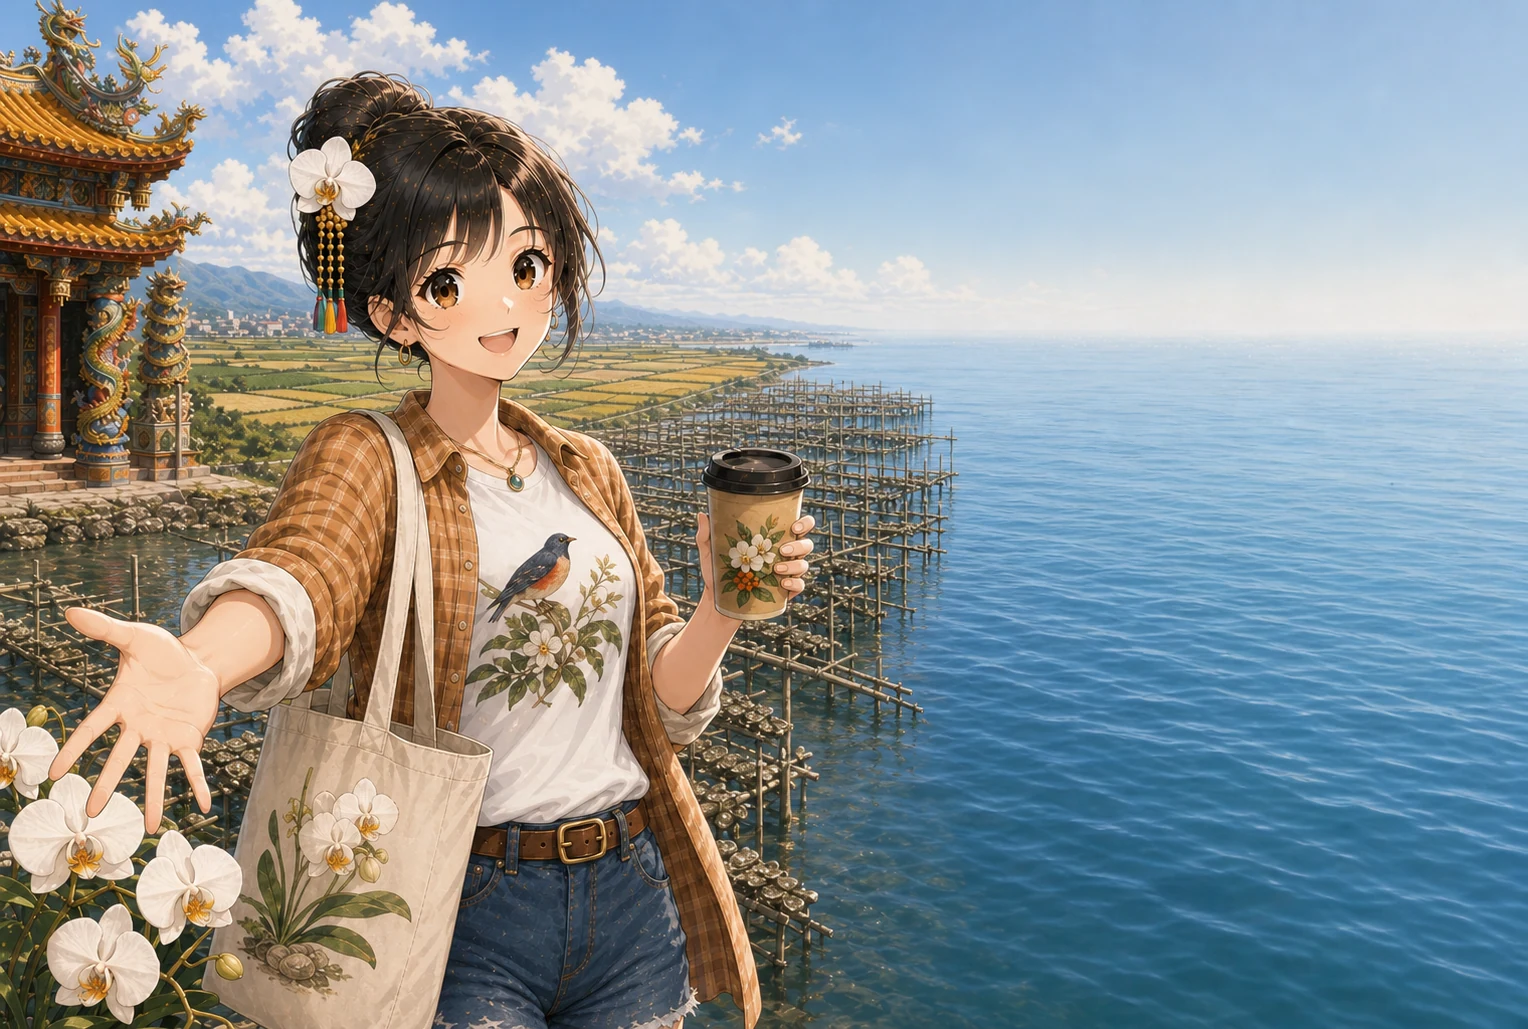
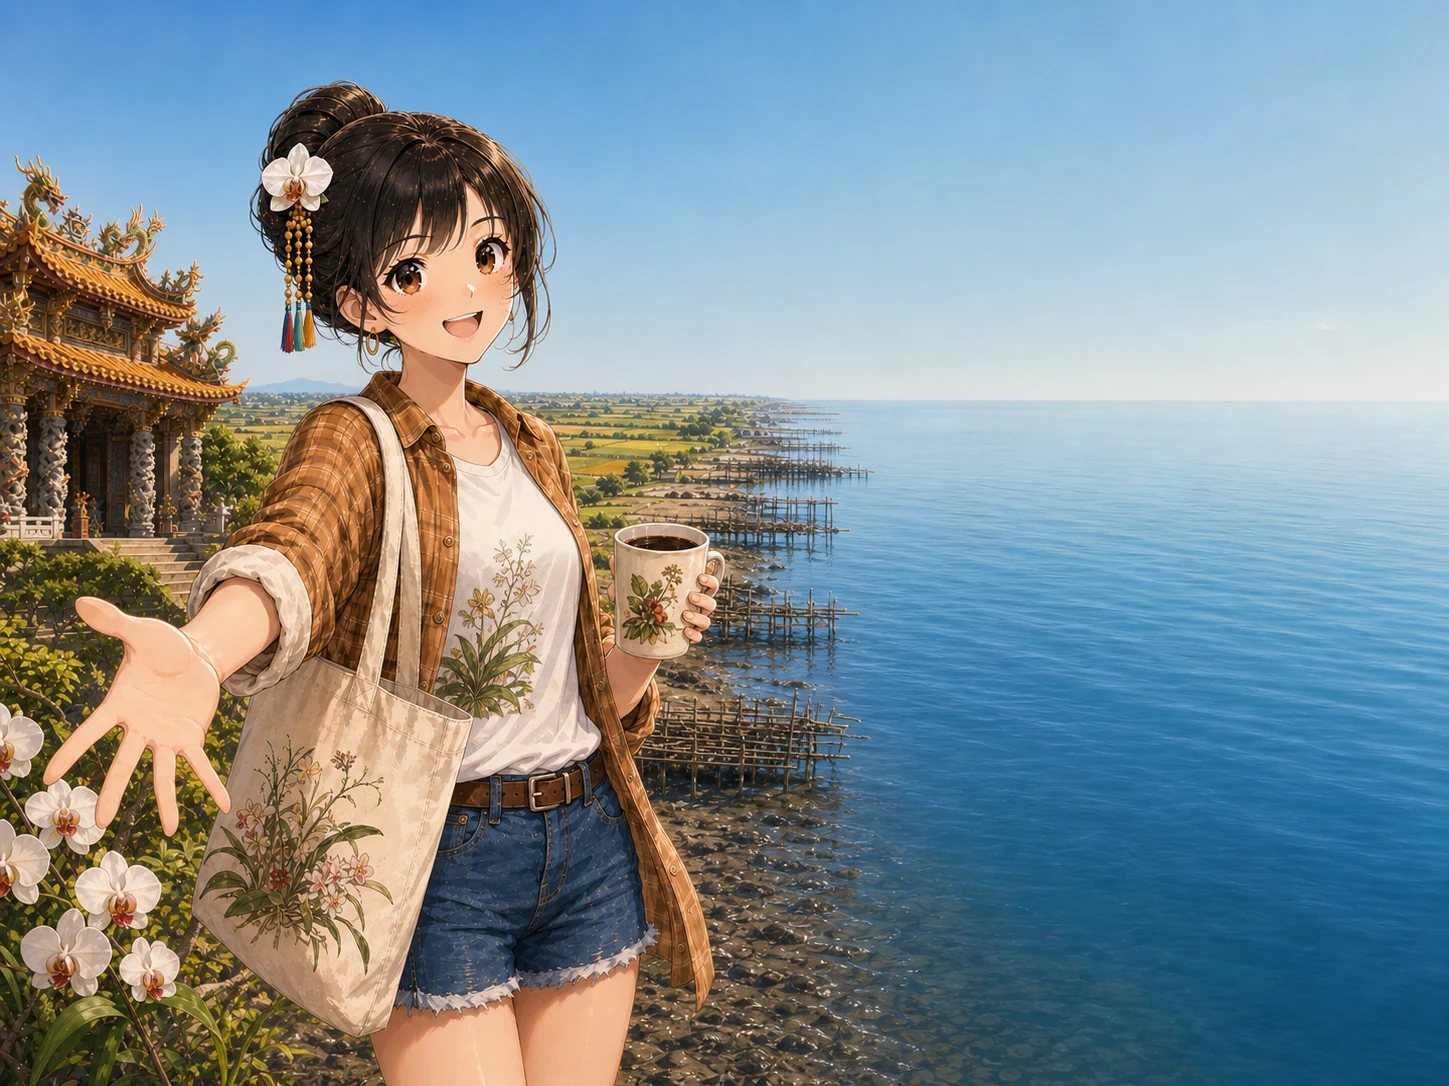
22 句引句全部改用海報原文
先前把 22 句全部改寫成「XX是咱的家」，但那個句型只有高雄那張是這樣寫的，
套到全部等於把原本的變化抹平成模板。
而且我只看了最左那一欄就下結論——實際上 20 張每一張都有那句話，
只是位置不同：10 張最左直書、新北在識別帶上、新竹在告示上、
其餘藏在段落卡的收尾。
現在 22 句全部取自原文，共用海報的兩對各取不同分句。

diff --git a/index.html b/index.html
@@ -788,7 +788,7 @@ const SEA_LBL=new Set(["基隆市","新竹市","嘉義市"]);
    資料來源 data/counties.json，改那裡之後要同步這裡。 */
 /* pick() 在載入時就會執行並寫入 CUR，宣告必須在它之前，否則 TDZ 會中斷整段腳本 */
 let CUR=null;
-const SPLIT={"基隆市": {"b": "keelung-base", "places": ["基隆嶼", "和平島", "潮境公園"], "foods": ["廟口小吃", "吉古拉", "基隆豆干"], "traits": ["海派", "浪漫", "念舊"], "quote": "雨絲綿綿，廟口鬧鬧，基隆是咱的家。"}, "台北市": {"b": "taipei-base", "places": ["陽明山", "北投溫泉", "象山"], "foods": ["士林夜市", "鳳梨酥", "貓空鐵觀音"], "traits": ["多元", "包容", "講究"], "quote": "硫煙裊裊，湯泉熱熱，台北是咱的家。"}, "新北市": {"b": "new-taipei-base", "places": ["野柳", "淡水", "烏來"], "foods": ["萬里蟹", "貢寮鮑", "金山地瓜"], "traits": ["實在", "勤懇", "山海兼容"], "quote": "潮聲隆隆，山城層層，新北是咱的家。"}, "桃園市": {"b": "taoyuan-base", "places": ["拉拉山", "石門水庫", "大溪老街"], "foods": ["大溪豆干", "石門活魚", "忠貞米干"], "traits": ["移民城市", "有拼勁", "多族群"], "quote": "埤塘閃閃，豆干韌韌，桃園是咱的家。"}, "新竹市": {"b": "hsinchu-city-base", "places": ["十八尖山", "南寮漁港", "新竹都城隍廟"], "foods": ["新竹米粉", "貢丸", "竹塹餅"], "traits": ["務實", "低調", "有遠見"], "quote": "風聲颼颼，米粉細細，新竹是咱的家。"}, "新竹縣": {"b": "hsinchu-county-base", "places": ["內灣老街", "北埔老街", "司馬庫斯"], "foods": ["客家擂茶", "粄條", "東方美人茶"], "traits": ["客家硬頸", "念祖", "勤儉"], "quote": "擂茶稠稠，茶山青青，新竹是咱的家。"}, "宜蘭縣": {"b": "yilan-base", "places": ["龜山島", "太平山", "冬山河"], "foods": ["三星蔥", "鴨賞", "宜蘭牛舌餅"], "traits": ["純淨", "慢活", "樂天"], "quote": "水田亮亮，青蔥直直，宜蘭是咱的家。"}, "苗栗縣": {"b": "miaoli-base", "places": ["南庄老街", "三義木雕村", "火炎山"], "foods": ["大湖草莓", "客家小炒", "苗栗粄條"], "traits": ["客家魂", "山城心", "人情味"], "quote": "木香沉沉，草莓紅紅，苗栗是咱的家。"}, "台中市": {"b": "taichung-base", "places": ["高美濕地", "台中國家歌劇院", "宮原眼科"], "foods": ["珍珠奶茶", "太陽餅", "逢甲夜市"], "traits": ["溫暖", "努力", "有品味"], "quote": "濕地闊闊，餅香酥酥，台中是咱的家。"}, "彰化縣": {"b": "changhua-base", "places": ["鹿港老街", "八卦山大佛", "扇形車庫"], "foods": ["彰化肉圓", "爌肉飯", "王功蚵仔"], "traits": ["樸實", "勤儉", "重傳承"], "quote": "車庫圓圓，肉圓燙燙，彰化是咱的家。"}, "南投縣": {"b": "nantou-base", "places": ["日月潭", "清境農場", "合歡山"], "foods": ["凍頂烏龍茶", "南投意麵", "竹山番薯"], "traits": ["誠實", "勤奮", "和諧"], "quote": "潭水深深，茶香淡淡，南投是咱的家。"}, "雲林縣": {"b": "yunlin-base", "places": ["北港朝天宮", "西螺大橋", "劍湖山"], "foods": ["古坑咖啡", "雲林花生", "西螺醬油"], "traits": ["腳踏實地", "好客", "有責任感"], "quote": "稻浪滾滾，醬缸厚厚，雲林是咱的家。"}, "嘉義市": {"b": "chiayi-city-base", "places": ["檜意森活村", "文化路夜市", "射日塔"], "foods": ["火雞肉飯", "林聰明沙鍋魚頭", "方塊酥"], "traits": ["慢慢來", "重人情", "講義氣"], "quote": "檜香濃濃，雞飯燒燒，嘉義是咱的家。"}, "嘉義縣": {"b": "chiayi-county-base", "places": ["阿里山", "奮起湖老街", "東石漁人碼頭"], "foods": ["阿里山高山茶", "東石鮮蚵", "梅山茶"], "traits": ["純樸", "堅持", "誠懇"], "quote": "雲海茫茫，茶園高高，嘉義是咱的家。"}, "台南市": {"b": "tainan-base", "places": ["赤崁樓", "安平古堡", "七股鹽山"], "foods": ["台南牛肉湯", "擔仔麵", "虱目魚"], "traits": ["古都風華", "慢活", "重人情"], "quote": "古城老老，湯頭清清，台南是咱的家。"}, "高雄市": {"b": "kh-base", "places": ["西子灣", "蓮池潭", "旗津"], "foods": ["丹丹漢堡", "木瓜牛奶", "旗山香蕉冰"], "traits": ["熱情", "豪爽", "打拚"], "quote": "海風鹹鹹，人情暖暖，高雄是咱的家。"}, "屏東縣": {"b": "pingtung-base", "places": ["墾丁國家公園", "東港大鵬灣", "佳樂水"], "foods": ["東港黑鮪魚", "萬巒豬腳", "恆春綠豆蒜"], "traits": ["樂天", "純樸", "包容"], "quote": "日頭辣辣，海水藍藍，屏東是咱的家。"}, "花蓮縣": {"b": "hualien-base", "places": ["太魯閣峽谷", "清水斷崖", "七星潭"], "foods": ["瑞穗文旦", "洛神花", "金針花"], "traits": ["純淨", "自由", "堅韌"], "quote": "峽谷幽幽，海水靜靜，花蓮是咱的家。"}, "台東縣": {"b": "taitung-base", "places": ["三仙台", "伯朗大道", "知本溫泉"], "foods": ["台東釋迦", "池上米", "鹿野紅烏龍"], "traits": ["包容", "自由", "樂觀"], "quote": "稻香飄飄，海岸長長，台東是咱的家。"}, "澎湖縣": {"b": "penghu-base", "places": ["雙心石滬", "七美藍洞", "澎湖天后宮"], "foods": ["小管麵線", "仙人掌冰", "花枝丸"], "traits": ["熱情", "團結", "勇敢"], "quote": "石滬彎彎，海水清清，澎湖是咱的家。"}, "金門縣": {"b": "kinmen-base", "places": ["莒光樓", "翟山坑道", "風獅爺"], "foods": ["金門貢糖", "廣東粥", "金門高粱酒"], "traits": ["堅毅", "重情", "守護"], "quote": "海風硬硬，貢糖甜甜，金門是咱的家。"}, "連江縣": {"b": "lienchiang-base", "places": ["芹壁聚落", "北海坑道", "大坵島"], "foods": ["繼光餅", "老酒麵線", "馬祖淡菜"], "traits": ["堅毅", "團結", "守望"], "quote": "石屋疊疊，海路遠遠，馬祖是咱的家。"}};
+const SPLIT={"基隆市": {"b": "keelung-base", "places": ["基隆嶼", "和平島", "潮境公園"], "foods": ["廟口小吃", "吉古拉", "基隆豆干"], "traits": ["海派", "浪漫", "念舊"], "quote": "基隆，永遠是我們的靠山，也是我們的起點。"}, "台北市": {"b": "taipei-base", "places": ["陽明山", "北投溫泉", "象山"], "foods": ["士林夜市", "鳳梨酥", "貓空鐵觀音"], "traits": ["多元", "包容", "講究"], "quote": "在這裡，每一天都發生未來。"}, "新北市": {"b": "new-taipei-base", "places": ["野柳", "淡水", "烏來"], "foods": ["萬里蟹", "貢寮鮑", "金山地瓜"], "traits": ["實在", "勤懇", "山海兼容"], "quote": "我的新北，我驕傲。"}, "桃園市": {"b": "taoyuan-base", "places": ["拉拉山", "石門水庫", "大溪老街"], "foods": ["大溪豆干", "石門活魚", "忠貞米干"], "traits": ["移民城市", "有拼勁", "多族群"], "quote": "連結世界的門戶，也是充滿活力與溫暖的家鄉。"}, "新竹市": {"b": "hsinchu-city-base", "places": ["十八尖山", "南寮漁港", "新竹都城隍廟"], "foods": ["新竹米粉", "貢丸", "竹塹餅"], "traits": ["務實", "低調", "有遠見"], "quote": "風起新竹，智領未來。"}, "新竹縣": {"b": "hsinchu-county-base", "places": ["內灣老街", "北埔老街", "司馬庫斯"], "foods": ["客家擂茶", "粄條", "東方美人茶"], "traits": ["客家硬頸", "念祖", "勤儉"], "quote": "在傳統與未來之間找到平衡。"}, "宜蘭縣": {"b": "yilan-base", "places": ["龜山島", "太平山", "冬山河"], "foods": ["三星蔥", "鴨賞", "宜蘭牛舌餅"], "traits": ["純淨", "慢活", "樂天"], "quote": "以謙遜的心，過簡單的生活。"}, "苗栗縣": {"b": "miaoli-base", "places": ["南庄老街", "三義木雕村", "火炎山"], "foods": ["大湖草莓", "客家小炒", "苗栗粄條"], "traits": ["客家魂", "山城心", "人情味"], "quote": "有山有海，有客家文化。"}, "台中市": {"b": "taichung-base", "places": ["高美濕地", "台中國家歌劇院", "宮原眼科"], "foods": ["珍珠奶茶", "太陽餅", "逢甲夜市"], "traits": ["溫暖", "努力", "有品味"], "quote": "在傳統與現代之間，走出屬於自己的步調。"}, "彰化縣": {"b": "changhua-base", "places": ["鹿港老街", "八卦山大佛", "扇形車庫"], "foods": ["彰化肉圓", "爌肉飯", "王功蚵仔"], "traits": ["樸實", "勤儉", "重傳承"], "quote": "美好彰化，希望城市。"}, "南投縣": {"b": "nantou-base", "places": ["日月潭", "清境農場", "合歡山"], "foods": ["凍頂烏龍茶", "南投意麵", "竹山番薯"], "traits": ["誠實", "勤奮", "和諧"], "quote": "山水之間，就是我們的家。"}, "雲林縣": {"b": "yunlin-base", "places": ["北港朝天宮", "西螺大橋", "劍湖山"], "foods": ["古坑咖啡", "雲林花生", "西螺醬油"], "traits": ["腳踏實地", "好客", "有責任感"], "quote": "風起雲湧，農業首都，雲林上場。"}, "嘉義市": {"b": "chiayi-city-base", "places": ["檜意森活村", "文化路夜市", "射日塔"], "foods": ["火雞肉飯", "林聰明沙鍋魚頭", "方塊酥"], "traits": ["慢慢來", "重人情", "講義氣"], "quote": "不喜歡說大話，但我們做得到。"}, "嘉義縣": {"b": "chiayi-county-base", "places": ["阿里山", "奮起湖老街", "東石漁人碼頭"], "foods": ["阿里山高山茶", "東石鮮蚵", "梅山茶"], "traits": ["純樸", "堅持", "誠懇"], "quote": "勇敢，踏實，向前行。"}, "台南市": {"b": "tainan-base", "places": ["赤崁樓", "安平古堡", "七股鹽山"], "foods": ["台南牛肉湯", "擔仔麵", "虱目魚"], "traits": ["古都風華", "慢活", "重人情"], "quote": "台南是我們的驕傲，也是我們的日常。"}, "高雄市": {"b": "kaohsiung-base", "places": ["西子灣", "蓮池潭", "旗津"], "foods": ["丹丹漢堡", "木瓜牛奶", "旗山香蕉冰"], "traits": ["熱情", "豪爽", "打拚"], "quote": "海風鹹鹹，人情暖暖，高雄是咱的家。"}, "屏東縣": {"b": "pingtung-base", "places": ["墾丁國家公園", "東港大鵬灣", "佳樂水"], "foods": ["東港黑鮪魚", "萬巒豬腳", "恆春綠豆蒜"], "traits": ["樂天", "純樸", "包容"], "quote": "山海相擁的土地，人情溫暖的日常。"}, "花蓮縣": {"b": "hualien-base", "places": ["太魯閣峽谷", "清水斷崖", "七星潭"], "foods": ["瑞穗文旦", "洛神花", "金針花"], "traits": ["純淨", "自由", "堅韌"], "quote": "我們以自然為家。"}, "台東縣": {"b": "taitung-base", "places": ["三仙台", "伯朗大道", "知本溫泉"], "foods": ["台東釋迦", "池上米", "鹿野紅烏龍"], "traits": ["包容", "自由", "樂觀"], "quote": "是旅行的目的地，更是心靈的歸屬地。"}, "澎湖縣": {"b": "penghu-base", "places": ["雙心石滬", "七美藍洞", "澎湖天后宮"], "foods": ["小管麵線", "仙人掌冰", "花枝丸"], "traits": ["熱情", "團結", "勇敢"], "quote": "風大但是心暖，澎湖囡仔人情甘甜。"}, "金門縣": {"b": "kinmen-base", "places": ["莒光樓", "翟山坑道", "風獅爺"], "foods": ["金門貢糖", "廣東粥", "金門高粱酒"], "traits": ["堅毅", "重情", "守護"], "quote": "風很硬，心很暖，我們守著家園，也迎接世界。"}, "連江縣": {"b": "lienchiang-base", "places": ["芹壁聚落", "北海坑道", "大坵島"], "foods": ["繼光餅", "老酒麵線", "馬祖淡菜"], "traits": ["堅毅", "團結", "守望"], "quote": "山海相依，風浪淬鍊，這就是馬祖人的日常。"}};
 const NUDGE={"基隆市":[86,-40],"台北市":[2,-74],"新竹市":[-128,-30],"嘉義市":[-150,-30]};
 /* 由北到南排：連江(馬祖) 26.2°N → 金門 24.4°N → 澎湖 23.6°N */
 const INSET={matsu:"連江縣",kinmen:"金門縣",penghu:"澎湖縣"};

diff --git a/tools/build_prompt.py b/tools/build_prompt.py
@@ -51,13 +51,19 @@ def check(c):
 
 def build(c):
     s = c["scene"]
+    hairstyle_lock = (
+        "Use the county-specific hairstyle in IN HER HAIR below; it overrides the default bun. "
+        if s.get("hair") else
+        "Her hair is gathered high into a neat compact bun as described above, tidy and close "
+        "to the head. "
+    )
     return (
         "Repaint the scene from image 1 as one single continuous illustration in exactly the "
         "same anime illustration style, colour palette and lighting. "
         f"THE CHARACTER, locked by the reference sheets: {CARD['card']} "
         "Keep her face, eyes, hair colour and hair length exactly as in the reference sheets — but "
-        "NOT the hairstyle: the sheets show it blown loose by the wind, which is wrong. Her hair is "
-        "gathered high into a neat compact bun as described above, tidy and close to the head. "
+        "NOT the hairstyle: the sheets show it blown loose by the wind, which is wrong. "
+        + hairstyle_lock +
         "Same outstretched left arm and open-hand gesture, same pose. "
         + (f"IN HER HAIR: {s['hair']}. "
            if s.get("hair") else
@@ -84,8 +90,11 @@ def build(c):
         + "; ".join(s.get("landmarks_en") or s["landmarks"]) + ". "
         f"In the lower left corner, {s.get('plants_desc') or s.get('plants_en') or ('blossoms of ' + '、'.join(s['plants']))}, "
         "attached to their own branches and never floating over water. "
-        "COMPOSITION: she stands in the LEFT THIRD of the picture and must not extend past the "
-        "horizontal midpoint — the right 40 percent stays empty. "
+        "COMPOSITION: she stands in the LEFT THIRD of the picture. Her entire silhouette — "
+        "including both hands, hair, clothing, tote and the cup — must fit at or left of the "
+        "horizontal midpoint; hold the cup inward near her chest so its right edge does not cross "
+        "that midpoint. Confine all land, shoreline, cliffs, rocks and vegetation to the left 60 "
+        "percent. From x=60% to the right edge, the right 40 percent stays empty. "
         "GARMENT PRINTS — no lettering anywhere: the T-shirt and the canvas tote each carry a "
         "printed illustration with absolutely no words, letters or Chinese characters. Any label on "
         "what she is holding carries only a small wordless illustration. Every print must be a complete "
@@ -117,12 +126,67 @@ def build(c):
 
 
 def refs(c):
-    """生圖要附的參考圖，順序固定：立繪 → 臉部四視圖 → 該縣市舊海報。"""
-    out = [ROOT / "data" / "character" / "ref-half.png",
-           ROOT / "data" / "character" / "face.png"]
+    """生圖要附的參考圖：image 1 是舊海報，其後才是角色設定圖。"""
+    out = []
     if c.get("poster"):
         out.append(ROOT / "img" / f"{c['poster']}.webp")
+    out.extend([ROOT / "data" / "character" / "ref-half.png",
+                ROOT / "data" / "character" / "face.png"])
     return [str(p) for p in out if p.exists()]
+
+
+def build_composition_fix(c):
+    """既有底圖只重排人物與右側留白，不重畫角色設計。"""
+    return (
+        "Use case: precise-object-edit. Image 1 is the edit target. Change only the spatial "
+        "composition. Preserve the exact character identity, face, warm brown eyes, expression, "
+        "county-specific hairstyle and flower accessory, gold beaded tassel hairpin, outfit, "
+        "jewellery, tote, held item, hand gestures, anime rendering, colour palette and daylight. "
+        "Uniformly scale the whole character with both arms, tote and cup to about 85 percent of "
+        "its current size and shift it left, without cropping the open left hand, until every part "
+        "of the character including the cup's right edge is at or left of x=50 percent. The head "
+        "should span about 14 percent of the canvas width and the lower frame should cut the figure "
+        "at mid-thigh. Recompose only the scenery needed to fill the revealed space naturally. "
+        "Confine every piece of land, shoreline, cliff, rock and vegetation to x=0–60 percent. "
+        "From x=60 percent to the right edge, show only continuous open sea and sky: no land, "
+        "shoreline, rocks, vegetation, buildings, boats, figures or objects. Keep the top 22 percent "
+        "of the right half completely open sky and keep the middle-right water smooth for text. "
+        "Do not change, add or remove any other subject detail. No text, letters, logos, panels, "
+        "borders or watermarks. One continuous 4:3 landscape illustration."
+    )
+
+
+def build_framing_fix(c):
+    """右側留白正確後，只修近距離人物尺度與垂直位置。"""
+    return (
+        "Use case: precise-object-edit. Image 1 is the edit target. Change only the character's "
+        "scale and vertical framing; keep the current left/right scene boundary and every background "
+        "detail exactly unchanged. Preserve the exact face, warm brown eyes, expression, "
+        "county-specific hairstyle and flower accessory, gold beaded tassel hairpin, clothing, "
+        "jewellery, tote, held item, both hand gestures, anime style, palette and lighting. Enlarge "
+        "the entire "
+        "character uniformly to 115 percent of its current size and move it upward so the top of the "
+        "flower crown reaches y=10 percent of the canvas. Continue the lower body naturally beyond "
+        "the canvas so the bottom edge crops her at mid-thigh; do not leave scenery beneath her. "
+        "Keep the open left hand fully visible. The complete silhouette including the cup must remain "
+        "at or left of x=50 percent. Do not alter the open sea and sky from x=60–100 percent. Do not "
+        "change, add or remove any other subject detail. No text, letters, logos, panels, borders or "
+        "watermarks. One continuous 4:3 landscape illustration."
+    )
+
+
+def build_plant_fix(c):
+    """既有底圖只修左下角的縣花植物形態。"""
+    plant = c["scene"].get("plants_desc") or c["scene"].get("plants_en")
+    return (
+        "Use case: precise-object-edit. Image 1 is the edit target. Change only the botanical "
+        "cluster in the lower-left corner so it clearly and accurately contains: " + plant + ". "
+        "Every flower, seed pod, stalk and leaf must be physically connected as one natural plant. "
+        "Preserve the exact character, face, brown eyes, hair, flower accessory, hairpin, outfit, "
+        "jewellery, tote, held item, hands, pose, scenery, left/right composition, open sea and sky, "
+        "anime style, palette and lighting. Do not change, add or remove anything else. No text, "
+        "letters, logos, panels, borders or watermarks. One continuous 4:3 landscape illustration."
+    )
 
 
 if __name__ == "__main__":
@@ -132,5 +196,11 @@ if __name__ == "__main__":
     check(county)
     if "--refs" in sys.argv:
         print("\n".join(refs(county)))
+    elif "--fix-composition" in sys.argv:
+        print(build_composition_fix(county))
+    elif "--fix-framing" in sys.argv:
+        print(build_framing_fix(county))
+    elif "--fix-plant" in sys.argv:
+        print(build_plant_fix(county))
     elif "--check" not in sys.argv:
         print(build(county))
